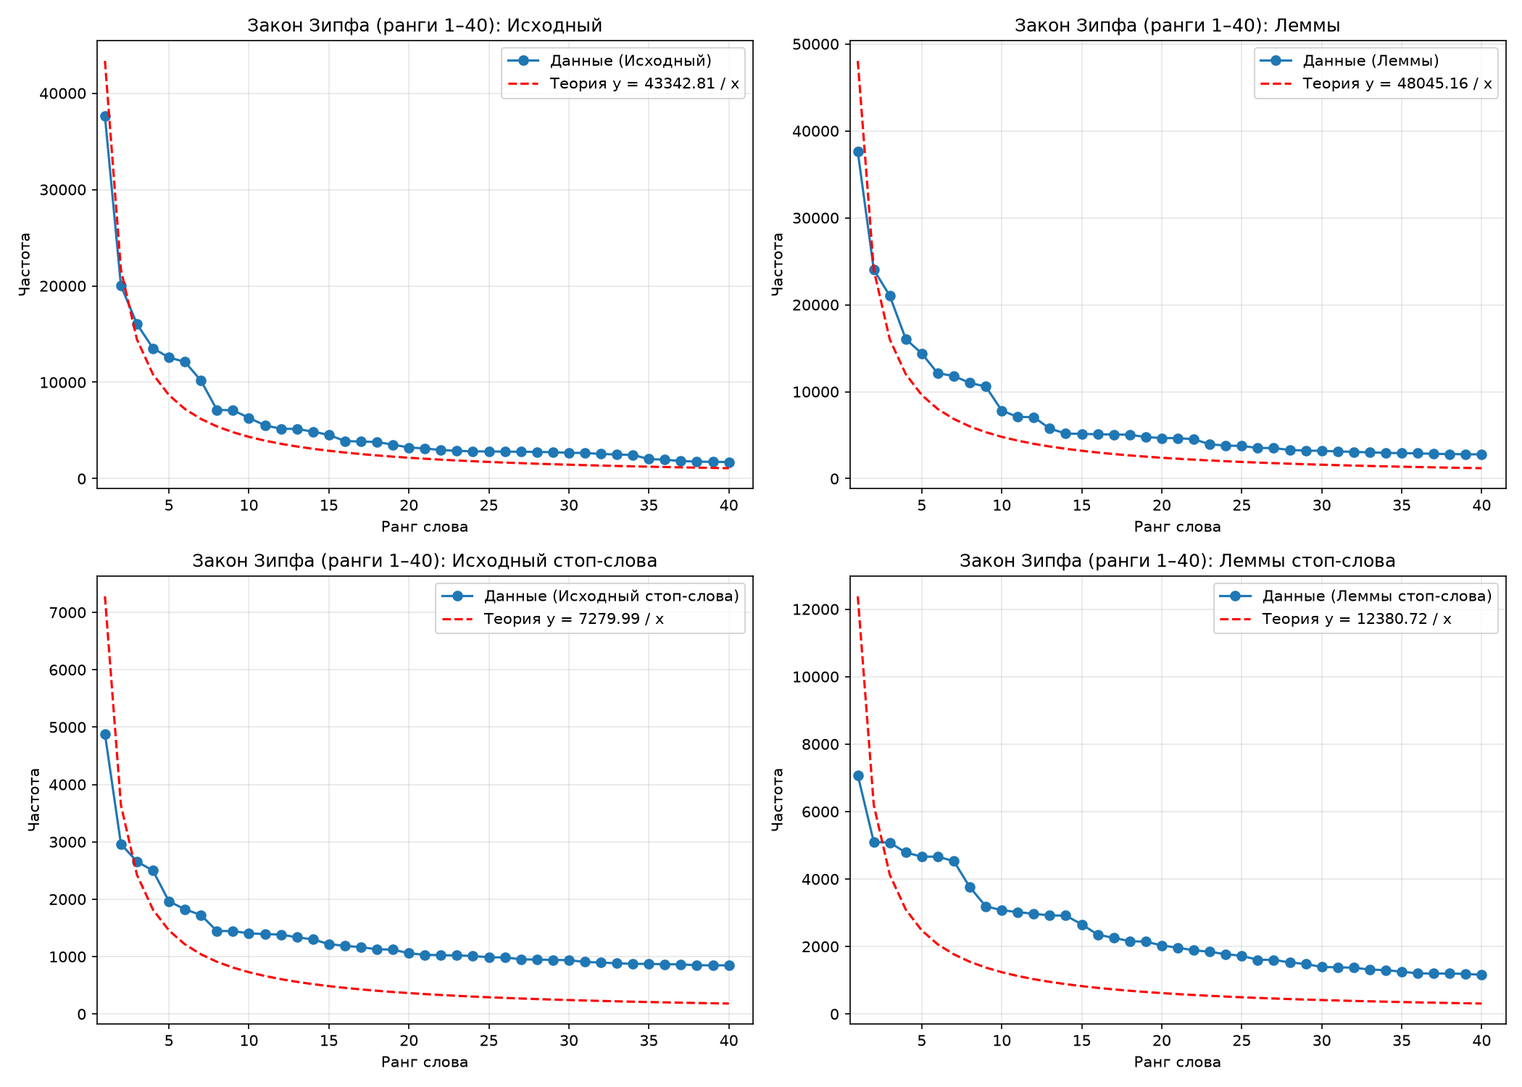
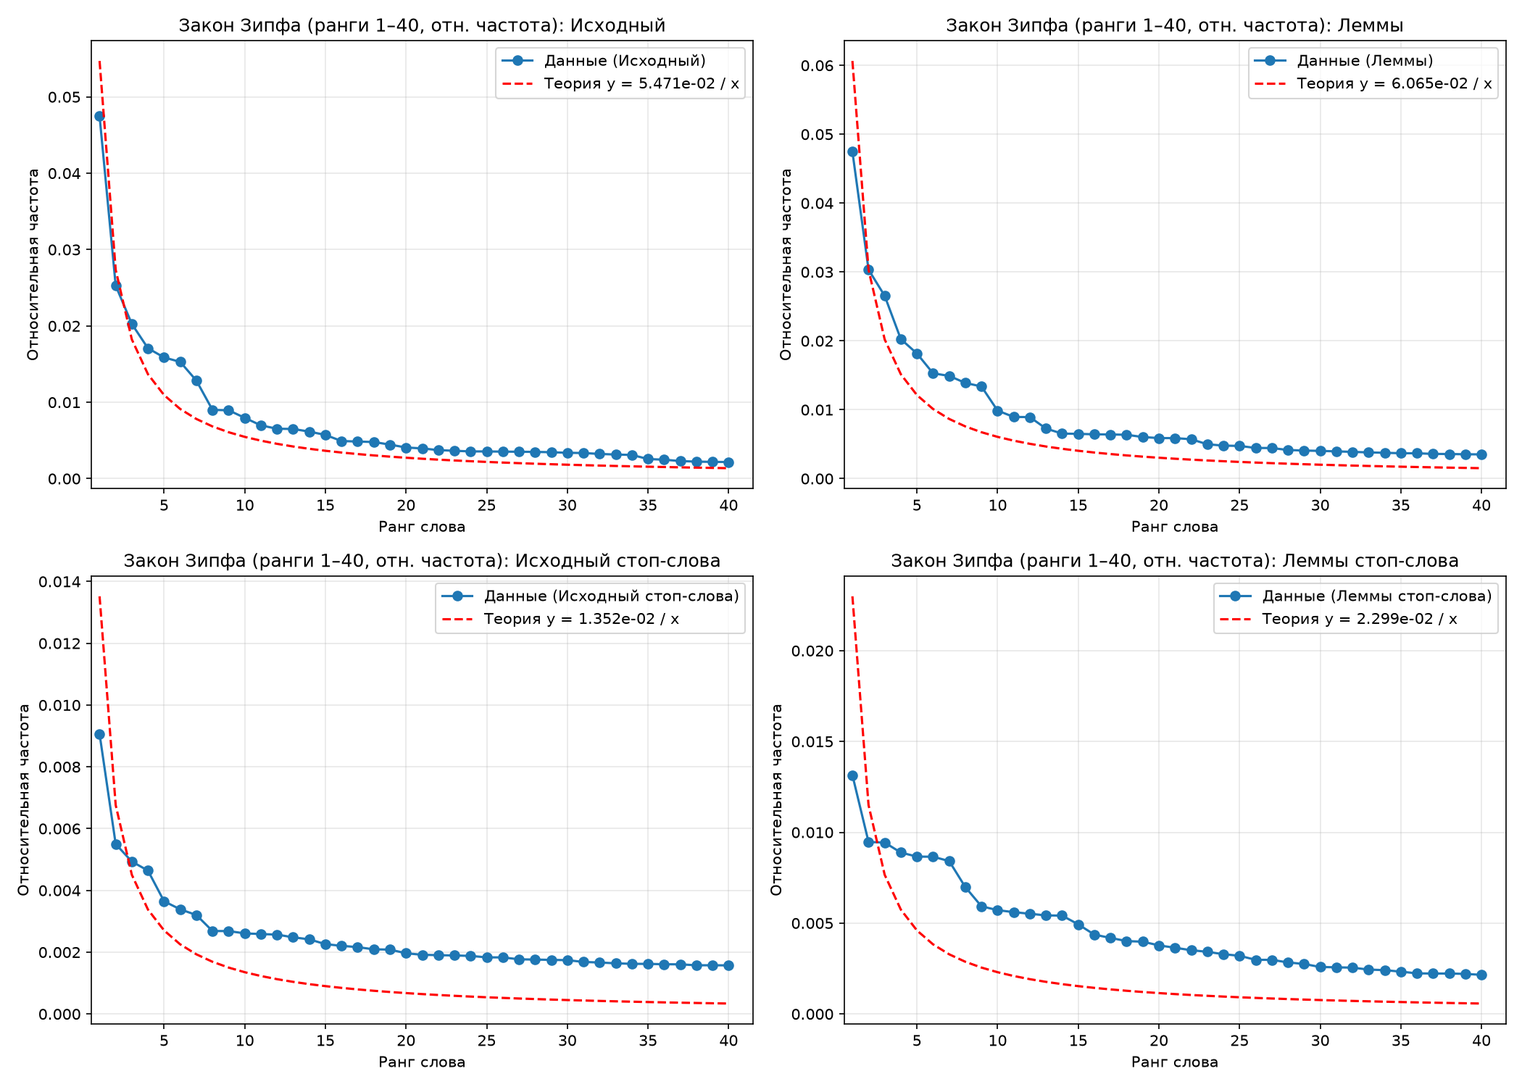
относительные конст зипфа и лаб 4 до копилота (кривые числителньые)

diff --git a/main4.py b/main4.py
@@ -37,6 +37,7 @@ def analyze_sentence(text, index):
     # Для предложений с нулевой связкой: "Мой брат — студент".
     text_clean = re.sub(r"\s+[—–]\s+", " ", text).strip()
     doc = nlp(text_clean)
+    predicates = [] 
 
     # Вспомогательная функция для приведения dep_ к нижнему регистру,
     # так как spacy_udpipe возвращает ROOT заглавными, а остальное — строчными.
@@ -58,40 +59,133 @@ def analyze_sentence(text, index):
         parts_sorted = sorted(set(parts), key=lambda w: text_clean.find(w))
         return "".join(parts_sorted)
 
+
+
     # --- 1. Подлежащие ---
     subject_deps = {"nsubj", "csubj", "nsubjpass", "csubjpass"}
     base_subjects = [token for token in doc if dep(token) in subject_deps]
     subjects = []
+
+    def collect_subject_span(tok):
+        """Рекурсивно собирает именную группу (ФИО, числительные, частицы)."""
+        parts = {tok.i: tok.text}
+        
+        def gather_children(node):
+            for child in node.children:
+                cd = dep(child)
+                # Включаем nummod:gov и другие вариации
+                if cd in ("flat", "compound", "nummod", "nummod:gov", "fixed", "goeswith"):
+                    parts[child.i] = child.text
+                    gather_children(child)
+                    
+        def gather_parents(node):
+            head = node.head
+            if head is not None and head.i != node.i:
+                hd = dep(head)
+                # Если мы начали с числительного, или родитель — числительное
+                if hd in ("nummod", "nummod:gov", "compound") or head.pos_ == "NUM":
+                    parts[head.i] = head.text
+                    # Собираем сестер/братьев головы (например, "двадцать" при "пять")
+                    for sib in head.children:
+                        if dep(sib) in ("nummod", "nummod:gov", "compound", "flat"):
+                            parts[sib.i] = sib.text
+                            gather_children(sib)
+                    gather_parents(head)
+
+        gather_children(tok)
+        gather_parents(tok)
+
+        # ЗАЩИТА ДЛЯ ЧИСЛИТЕЛЬНЫХ: если базовое слово — NUM, или его родитель 
+        # ошибочно помечен как VERB (но у него есть дети NUM) — забираем существительное.
+        if tok.pos_ in ("NUM", "VERB") or (tok.head and tok.head.pos_ == "VERB"):
+            for child in tok.children:
+                if child.pos_ in ("NOUN", "PROPN") or (child.pos_ == "VERB" and any(c.pos_ == "NUM" for c in child.children)):
+                    parts[child.i] = child.text
+                    gather_children(child)
+            if tok.head is not None and (tok.head.pos_ in ("NOUN", "PROPN") or (tok.head.pos_ == "VERB" and any(c.pos_ == "NUM" for c in tok.head.children))):
+                parts[tok.head.i] = tok.head.text
+
+        sorted_indices = sorted(parts.keys())
+        return " ".join(parts[i] for i in sorted_indices)
+
     for subj in base_subjects:
         # Обработка безличных предложений с отрицанием: "Нет времени".
-        # Слово в родительном падеже при "нет" — это не подлежащее.
         if (
             subj.head.lemma_.lower() in ("нет", "не́ту", "нету")
-            and "Gen" in subj.morph.get("Case", [])     # Родительный падеж
+            and "Gen" in subj.morph.get("Case", [])
         ):
             continue
-        
-        # Обычное подлежащее (включая склеенные: "Кто-то")
-        full_subj = get_full_word(subj)
+
+        full_subj = collect_subject_span(subj)
         if full_subj not in subjects:
             subjects.append(full_subj)
-            
+
         # Однородные подлежащие (Маша и Петя): второй и последующие получают conj
         for child in subj.children:
             if dep(child) == "conj":
-                full_conj = get_full_word(child)
+                full_conj = collect_subject_span(child)
                 if full_conj not in subjects:
                     subjects.append(full_conj)
 
-    # --- 2. Глагольные сказуемые ---
+    # --- 1.1. Fallback на случай, если nsubj вообще не найден ---
+    if not subjects:
+        main_verb = None
+        for t in doc:
+            if dep(t) == "root" and t.pos_ in ("VERB", "AUX"):
+                main_verb = t
+                break
+        if main_verb is None:
+            for t in doc:
+                if t.pos_ in ("VERB", "AUX") and dep(t) not in ("advcl", "acl", "amod"):
+                    main_verb = t
+                    break
+
+        if main_verb is not None:
+            candidates = []
+            for t in doc:
+                if t.pos_ not in ("NOUN", "PROPN", "PRON", "NUM"):
+                    continue
+                # Для числительных (как в "двадцать пять") падеж может быть Nom
+                if "Nom" not in t.morph.get("Case", []):
+                    continue
+                if t is main_verb or t.head is main_verb:
+                    pass
+                if get_full_word(t) in predicates:
+                    continue
+                if t.head is not None and t.head.pos_ == "ADP":
+                    continue
+                candidates.append(t)
+
+            if candidates:
+                candidates.sort(key=lambda t: abs(t.i - main_verb.i))
+                full_subj = collect_subject_span(candidates[0])
+                if full_subj not in subjects:
+                    subjects.append(full_subj)
+                for child in candidates[0].children:
+                    if dep(child) == "conj":
+                        full_conj = collect_subject_span(child)
+                        if full_conj not in subjects:
+                            subjects.append(full_conj)
+
+        # --- 2. Глагольные сказуемые ---
     predicates = []
 
-    # Проверяем, является ли токен глагольным сказуемым:
-    # 1. Корень дерева (ROOT) — всегда главный член.
-    # 2. Глагол/связка (VERB/AUX), но НЕ деепричастие (advcl), причастие (acl)
-    #    или определение (amod). Это отсекает "Прочитанная книга".
+    # Проверяем, является ли токен глагольным сказуемым
     def is_predicate_token(tok):
         d = dep(tok)
+        # ЗАЩИТА 1: если слово или его лемма уже вошли в подлежащее — это не сказуемое
+        if get_full_word(tok) in subjects or tok.lemma_ in subjects:
+            return False
+            
+        # ЗАЩИТА 2: если у слова есть дети с тегом NUM (числительные) — это не глагол. 
+        # UDPipe часто ошибочно дает тег VERB существительным вроде "котят", если рядом есть число.
+        if any(child.pos_ == "NUM" for child in tok.children):
+            return False
+
+        # ЗАЩИТА 3: если это xcomp, и у него есть подлежащее-числительное (как в "Девять котят гуляют.")
+        if d == "xcomp" and any(c.pos_ == "NUM" for c in tok.children):
+            return False
+            
         if d == "root":
             return True
         if tok.pos_ in ("VERB", "AUX") and d not in ("advcl", "acl", "amod", "acl:relcl"):
@@ -103,7 +197,6 @@ def analyze_sentence(text, index):
             full_pred = get_full_word(token)
             if full_pred not in predicates:
                 predicates.append(full_pred)
-            # Однородные сказуемые (читает и пишет): второй и последующие получают conj
             for child in token.children:
                 if dep(child) == "conj" and is_predicate_token(child):
                     full_conj = get_full_word(child)
@@ -115,29 +208,28 @@ def analyze_sentence(text, index):
         d = dep(token)
         full_name = get_full_word(token)
 
-        # Составное именное сказуемое с глаголом-связкой:
+        # 1. Составное именное сказуемое с глаголом-связкой:
         # "был врачом" (attr/xcomp при глаголе).
-        if d in ("attr", "xcomp") and token.head.pos_ in ("VERB", "AUX"):
-            if full_name not in predicates:
-                predicates.append(full_name)
-            continue
+        if d in ("attr", "xcomp"):
+            # Проверяем, что родитель — глагол/связка, либо сам является связкой
+            if token.head.pos_ in ("VERB", "AUX") or token.head.lemma_.lower() in COPULAS:
+                if full_name not in predicates:
+                    predicates.append(full_name)
+                continue
 
-        # Составное именное сказуемое с глаголами-связками в творительном падеже:
-        # "стала учителем" (obl + Ins при глаголе стать/быть/казаться и т.п.).
+        # 2. Глаголы-связки в творительном падеже ("стала учителем"):
+        # В UDPipe "учителем" имеет связь obl.
+        # Мы убрали жесткую проверку на падеж "Ins", так как парсер иногда его не проставляет.
         if (
-            d == "obl"
-            and token.head.pos_ in ("VERB", "AUX")
-            and "Ins" in token.morph.get("Case", [])    # Творительный падеж
-            and token.head.lemma_.lower() in COPULAS
+            d in ("obl", "attr", "xcomp", "root")
+            and (token.head.lemma_.lower() in COPULAS or token.lemma_.lower() in COPULAS)
         ):
             if full_name not in predicates:
                 predicates.append(full_name)
             continue
 
-        # Нулевая связка (пропущенный глагол "быть"):
+        # 3. Нулевая связка (пропущенный глагол "быть"):
         # "Мой брат — студент" -> "студент" становится root или parataxis.
-        # Ищем только главные позиции, чтобы не захватить зависимые слова
-        # как (например, "архитектуры" при "памятник").
         if (
             d in ("root", "parataxis", "orphan", "appos", "conj")
             and token.pos_ not in ("VERB", "AUX", "PUNCT", "ADP", "CCONJ", "SCONJ", "DET", "PART", "NUM")
@@ -212,6 +304,9 @@ while True:
         print(f"Произошла ошибка: {e}")
 
 
+
+
+# ПРОВЕРКА
 # Мальчик читает книгу.
 # Маша и Петя играют в футбол.
 # Мой брат — студент.
@@ -222,3 +317,7 @@ while True:
 # Прочитанная книга лежала на столе.
 # Кто-то стучит в дверь.
 # Я знаю, что он придёт.
+# Девять котят гуляют.
+# девять котят гуляют
+# двадцать пять котят пошли гулять
+# 

diff --git a/main2.py b/main2.py
@@ -59,15 +59,13 @@ def remove_stop_words(words: Counter, stop_words: set[str], by_lemma: bool = Fal
 
 def print_comparison(dictionaries: dict[str, Counter]) -> None:
     print(f"\nТОП-{TOP_N} СЛОВ:")
-    
-    # Делаем колонки пошире, так как названия словарей длинные
+
     col_width = 30
     print(f"{'Ранг':<6}", end="")
     for name in dictionaries:
         print(f"{name:<{col_width}}", end="")
     print()
 
-    # Получаем самые частые слова для каждого словаря
     tops = {name: dictionary.most_common(TOP_N) for name, dictionary in dictionaries.items()}
 
     for rank in range(TOP_N):
@@ -84,14 +82,20 @@ def print_comparison(dictionaries: dict[str, Counter]) -> None:
 
 
 def zipf_constant(words: Counter) -> float:
+    total = sum(words.values())
+    if total == 0:
+        return 0.0
+
     items = words.most_common()
-    numerator = 0.0      # sum(y_i / x_i)
+    numerator = 0.0      # sum(y_i / x_i), y_i — относительная частота
     denominator = 0.0    # sum(1 / x_i^2)
 
     for rank, (_, count) in enumerate(items, start=1):
-        if count < 3:  # отсекаем хвост, влияющий константу Зипфа (частоты 1 и 2 слишком редки)
+        # Отсекаем хвост: слова с частотой 1–2 дают шум и искажают МНК.
+        if count < 3:
             break
-        numerator += count / rank
+        freq = count / total          # относительная частота
+        numerator += freq / rank
         denominator += 1 / (rank ** 2)
 
     if denominator == 0:
@@ -101,12 +105,10 @@ def zipf_constant(words: Counter) -> float:
 
 def plot_zipf(dictionaries: dict[str, Counter]) -> None:
     def plot_formatter(x, _):
-        # Форматирует числа на осях: убирает степени 10 и добавляет пробелы
         if x >= 1:
             return f"{int(x):,}".replace(",", " ")
         return f"{x:g}"
 
-    # Создаем две фигуры (полная и топ-40)
     fig_full, axes_full = plt.subplots(2, 2, figsize=(14, 10))
     fig_top40, axes_top40 = plt.subplots(2, 2, figsize=(14, 10))
 
@@ -114,41 +116,44 @@ def plot_zipf(dictionaries: dict[str, Counter]) -> None:
         items = dictionary.most_common()
         ranks = list(range(1, len(items) + 1))
         frequencies = [count for _, count in items]
+        total = sum(frequencies)
 
-        # Считаем константу для графика
+        # Относительные частоты для графика (доля от общего числа вхождений)
+        rel_frequencies = [f / total for f in frequencies]
+
+        # Считаем относительную константу
         c = zipf_constant(dictionary)
 
-        # ---------- 1. Полная диаграмма (лог-лог) ----------
+        # ---------- 1. Полная диаграмма (лог-лог, относительные частоты) ----------
         ax = axes_full.flat[i]
-        ax.loglog(ranks, frequencies, marker=".", linestyle="none", label=f"Данные ({name})")
+        ax.loglog(ranks, rel_frequencies, marker=".", linestyle="none", label=f"Данные ({name})")
         if c > 0:
             theoretical = [c / r for r in ranks]
-            ax.loglog(ranks, theoretical, "--", color="red", label=f"Теория y = {c:.2f} / x")
-        
-        ax.set_title(f"Закон Зипфа (полная): {name}")
+            ax.loglog(ranks, theoretical, "--", color="red", label=f"Теория y = {c:.3e} / x")
+
+        ax.set_title(f"Закон Зипфа (полная, отн. частота): {name}")
         ax.set_xlabel("Ранг слова")
-        ax.set_ylabel("Частота")
+        ax.set_ylabel("Относительная частота")
         ax.grid(True, which="both", alpha=0.3)
         ax.legend()
         ax.xaxis.set_major_formatter(FuncFormatter(plot_formatter))
         ax.yaxis.set_major_formatter(FuncFormatter(plot_formatter))
 
-        # ---------- 2. Диаграмма для рангов 1–40 ----------
+        # ---------- 2. Диаграмма для рангов 1–40 (относительные частоты) ----------
         top_ranks = ranks[:TOP_N]
-        top_freqs = frequencies[:TOP_N]
+        top_rel = rel_frequencies[:TOP_N]
 
         ax = axes_top40.flat[i]
-        ax.plot(top_ranks, top_freqs, "o-", label=f"Данные ({name})")
+        ax.plot(top_ranks, top_rel, "o-", label=f"Данные ({name})")
         if c > 0:
             theoretical_top = [c / r for r in top_ranks]
-            ax.plot(top_ranks, theoretical_top, "--", color="red", label=f"Теория y = {c:.2f} / x")
-        
-        ax.set_title(f"Закон Зипфа (ранги 1–{TOP_N}): {name}")
+            ax.plot(top_ranks, theoretical_top, "--", color="red", label=f"Теория y = {c:.3e} / x")
+
+        ax.set_title(f"Закон Зипфа (ранги 1–{TOP_N}, отн. частота): {name}")
         ax.set_xlabel("Ранг слова")
-        ax.set_ylabel("Частота")
+        ax.set_ylabel("Относительная частота")
         ax.grid(True, alpha=0.3)
         ax.legend()
-        # Фиксируем ось X, чтобы она начиналась с 1 (ранга 0 не существует)
         ax.set_xlim(0.5, TOP_N + 1.5)
 
     fig_full.tight_layout()
@@ -173,11 +178,10 @@ def main() -> None:
     lemmas = to_lemmas(word_forms)
 
     # 4. Строим Словари 3 и 4 — без стоп-слов
-    #    Для словоформ сравниваем по лемме, чтобы удалялись все формы стоп-слов
     word_forms_no_stop_words = remove_stop_words(word_forms, stop_words, by_lemma=True)
     lemmas_no_stop_words = remove_stop_words(lemmas, stop_words)
 
-    # 5. Собираем все четыре словаря с нужными названиями
+    # 5. Собираем все четыре словаря
     dictionaries = {
         "Исходный": word_forms,
         "Леммы": lemmas,
@@ -190,21 +194,21 @@ def main() -> None:
     save_dict(word_forms_no_stop_words, "dictionary_3_no_stop_words.json")
     save_dict(lemmas_no_stop_words, "dictionary_4_lemmas_no_stop_words.json")
 
-    # 6. Выводим топ-40 в виде таблицы
+    # 6. Выводим топ-40
     print_comparison(dictionaries)
 
-    # 7. Считаем и выводим константы Зипфа
-    print("\nКОНСТАНТЫ ЗИПФА (по формуле со слайда, МНК для y = C/x):")
+    # 7. Считаем и выводим ОТНОСИТЕЛЬНЫЕ константы Зипфа
+    print("\nОТНОСИТЕЛЬНЫЕ КОНСТАНТЫ ЗИПФА (МНК для y = C/x, частоты нормированы на объём):")
     for name, dictionary in dictionaries.items():
         c = zipf_constant(dictionary)
-        print(f"  {name}: {c:.2f}")
+        print(f"  {name}: {c:.8f}")
 
-    # 8. Выводим общую статистику
+    # 8. Статистика
     print("\nСТАТИСТИКА:")
     for name, dictionary in dictionaries.items():
         print(f"  {name}: {sum(dictionary.values())} вхождений, {len(dictionary)} различных слов")
 
-    # 9. Строим графики
+    # 9. Графики
     plot_zipf(dictionaries)
 
 
